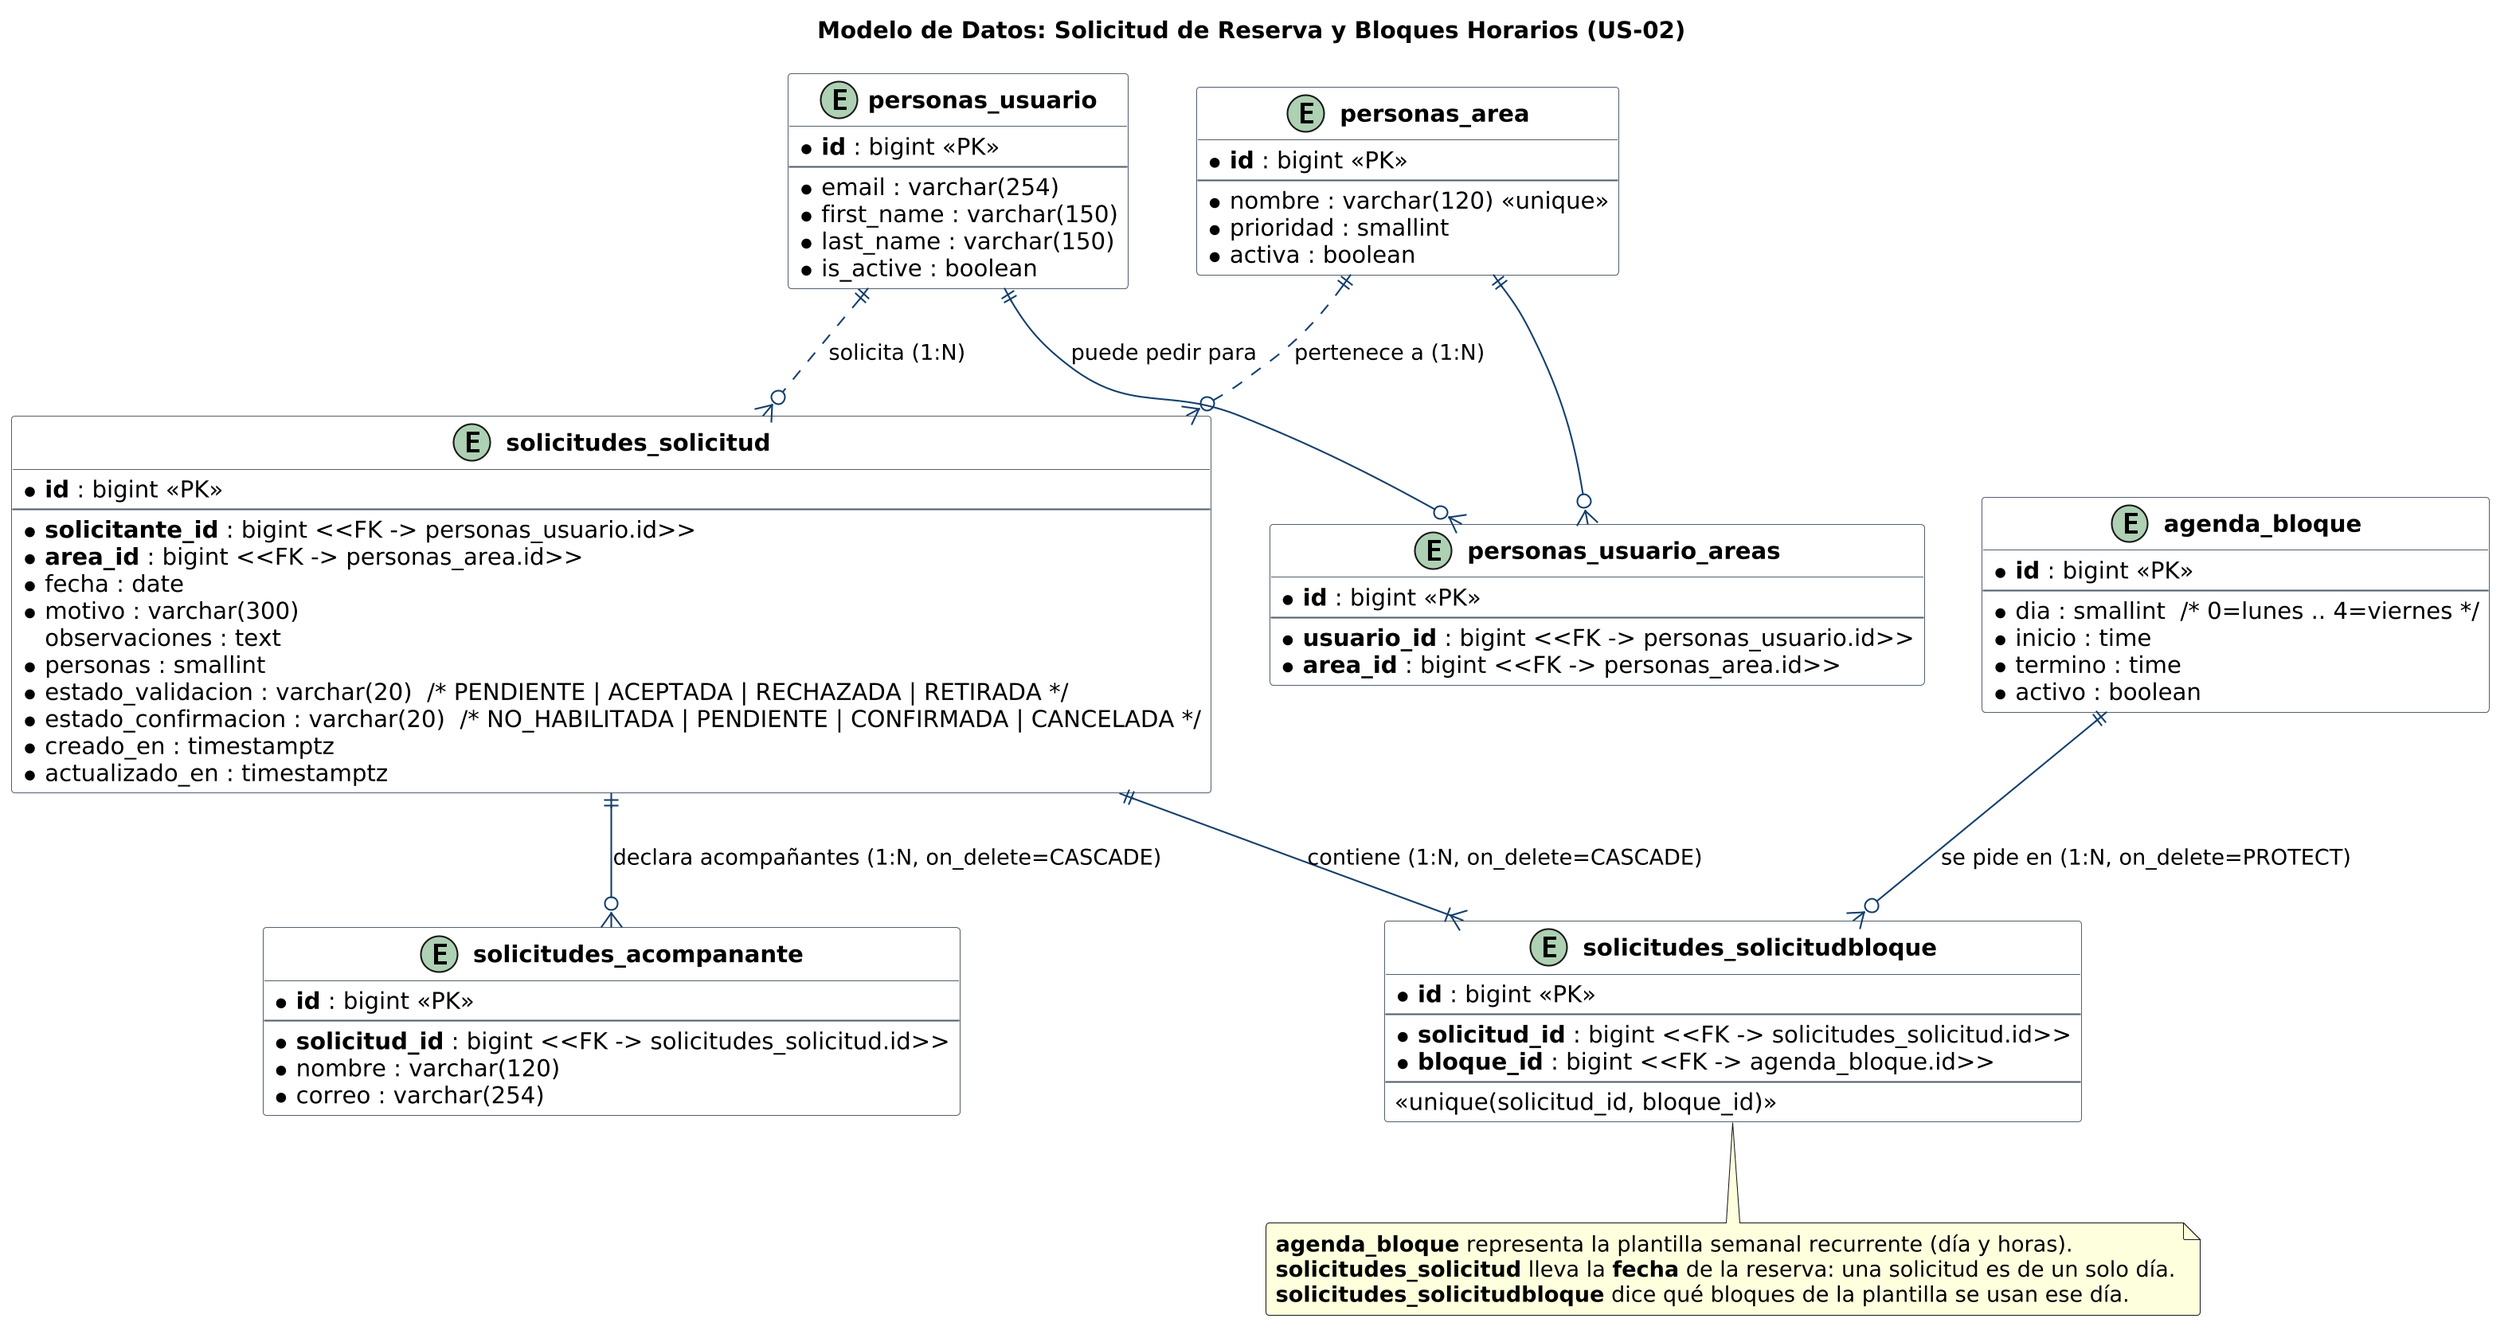
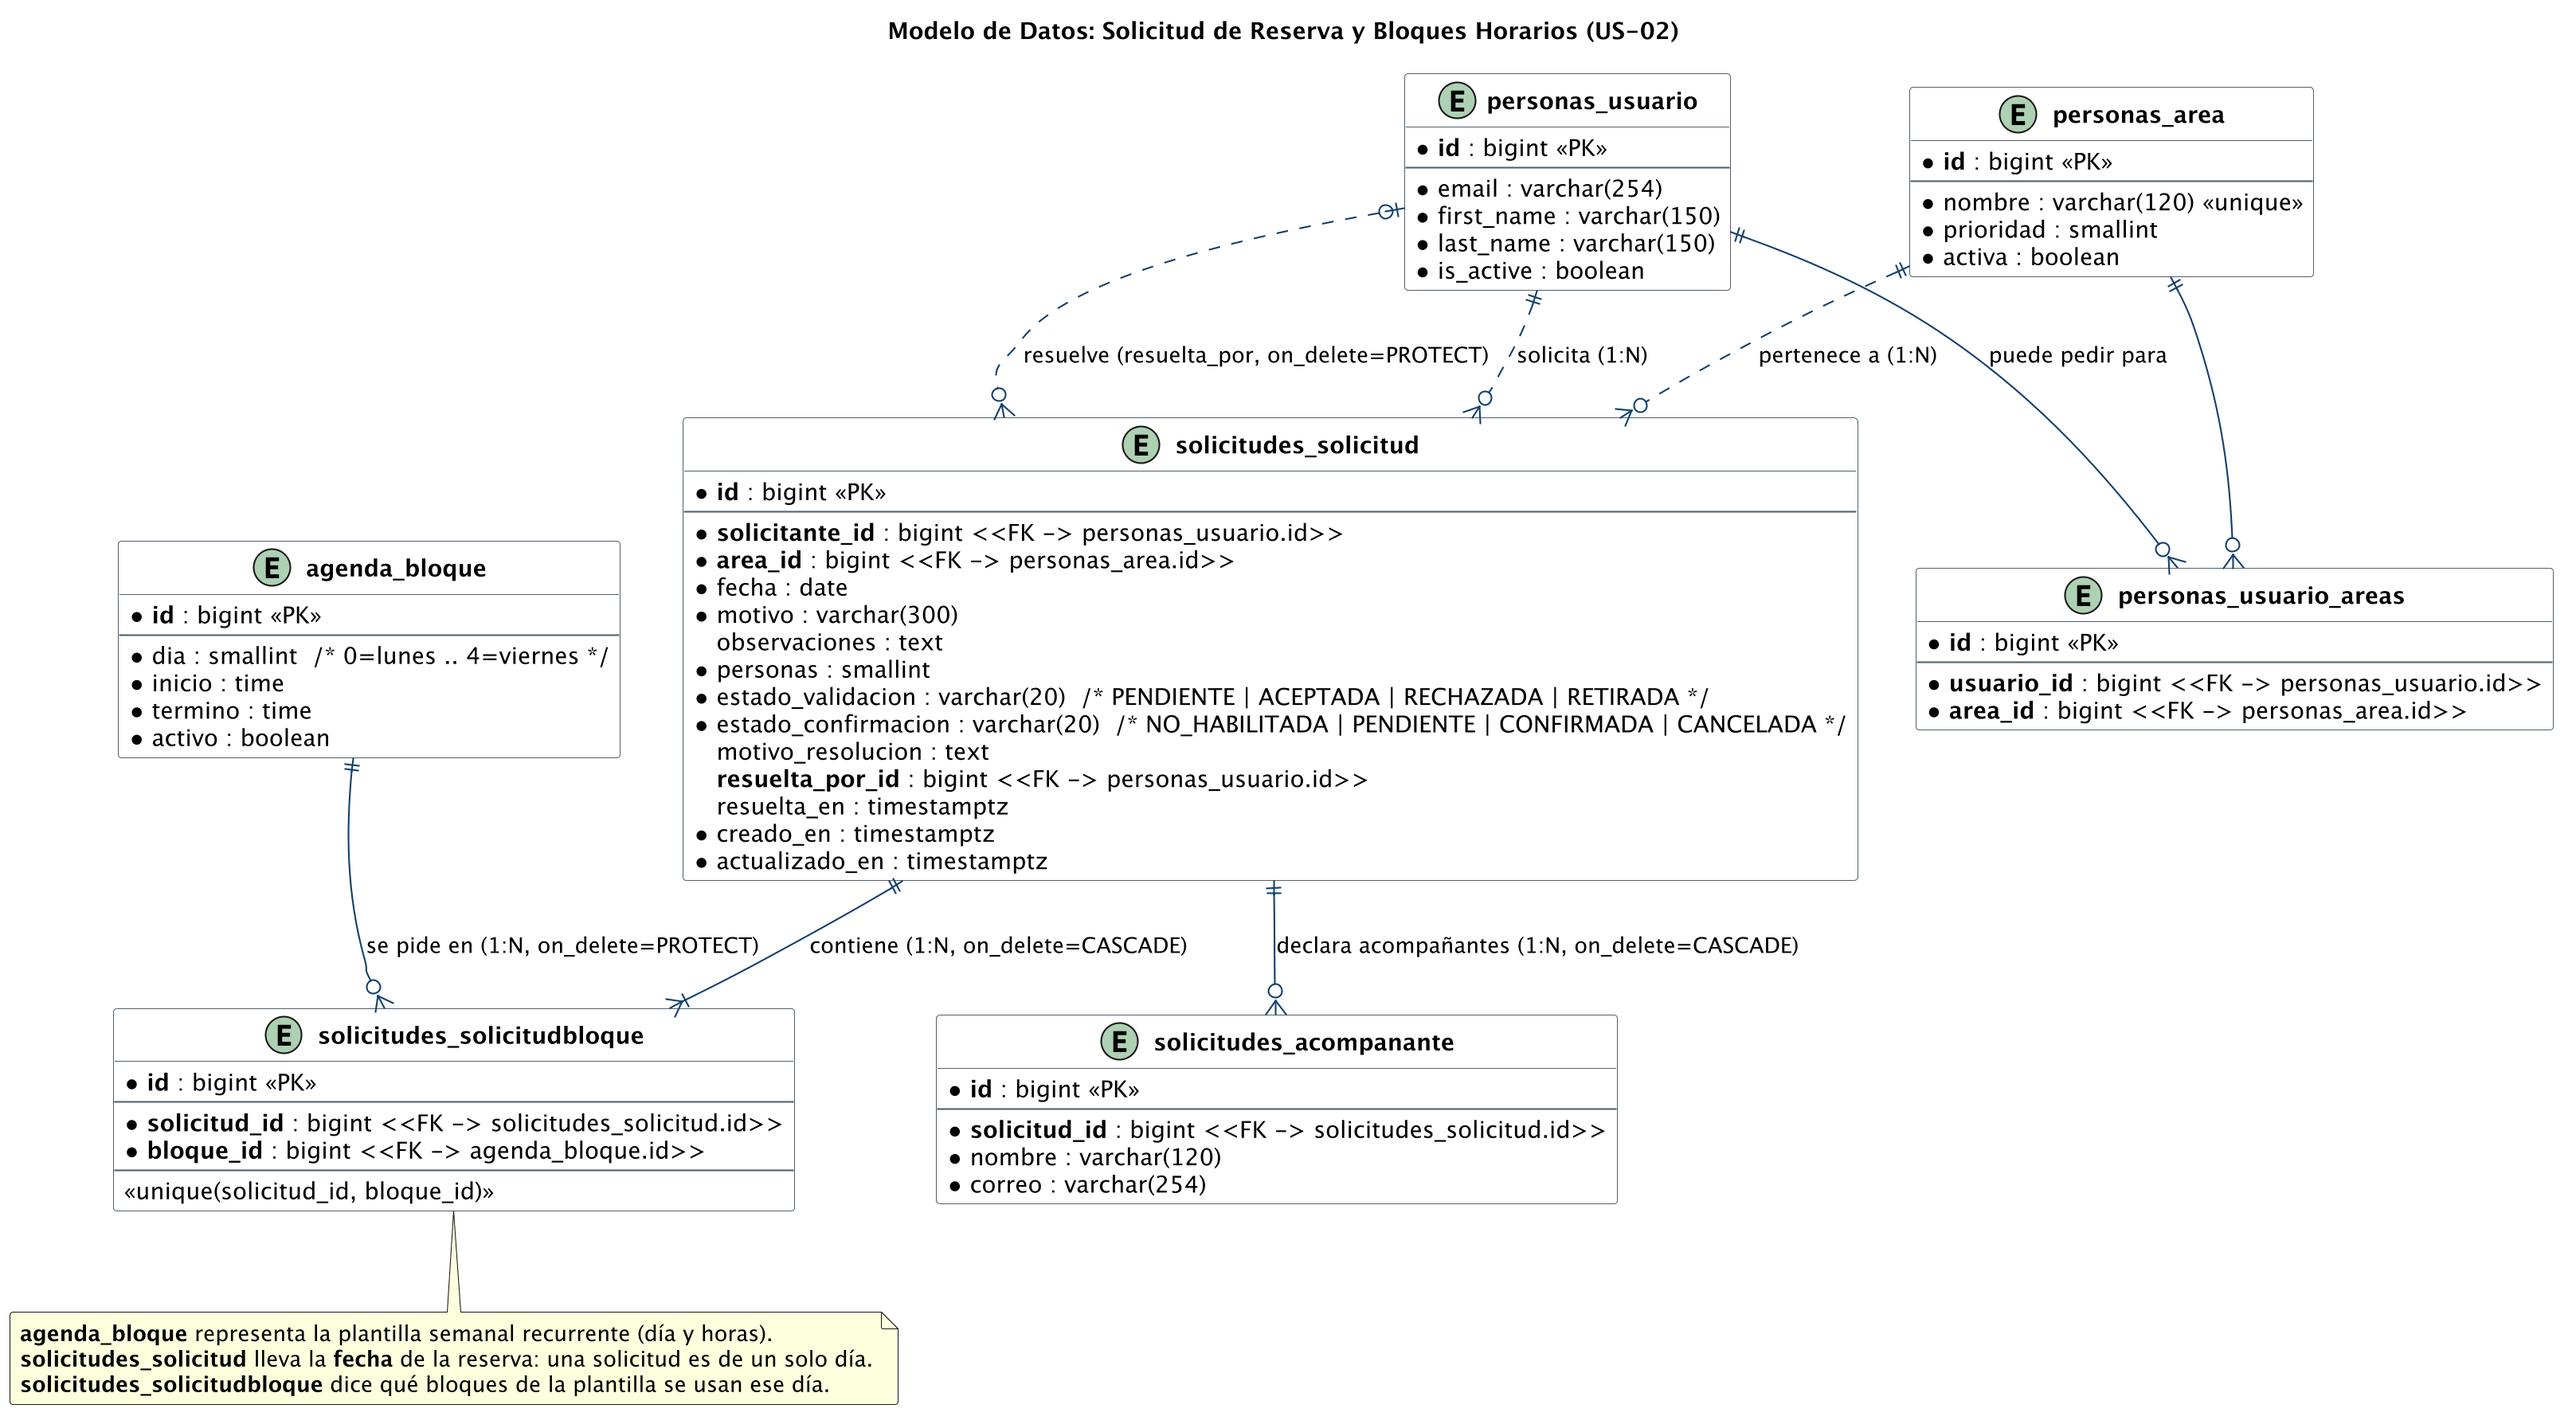
docs(solicitudes): poner al día los diagramas de US-07 y el modelo de US-02
El PR de US-03 cambió cosas que los diagramas de US-07 ya mostraban: resolver()
recibe `url_base`, el correo de una aprobada trae `url_confirmar`, los botones
se apagan mientras va el pedido (`enviando`) y, al rechazar sin tope, el aviso
sale en la tarjeta y el botón se llama «Confirmar rechazo». Se cambian solo esas
flechas; el resto del dibujo queda igual.

El modelo de datos de US-02 no tenía las columnas de la migración 0004
(`motivo_resolucion`, `resuelta_por_id`, `resuelta_en`). Se agregan con su FK.
Las demás columnas de personas_usuario siguen fuera de ese diagrama: están
completas en el modelo de datos de personas.

diff --git a/docs/diagramas.md b/docs/diagramas.md
@@ -199,12 +199,18 @@ y el correo sale solo cuando la transacción se confirma.
 
 La pantalla cambia solo si el servidor respondió `{"ok": true}`. Si la sesión
 venció, la respuesta es la página de ingreso y no JSON, y el panel avisa que no
-se pudo guardar.
+se pudo guardar. Mientras va el pedido los botones se apagan (`enviando`): un
+doble clic mandaría dos, y el segundo respondería que ya fue resuelta aunque se
+guardó.
+
+El correo de una aprobada trae el enlace para confirmar la asistencia (US-03).
+La vista le pasa a `resolver()` el esquema y el dominio del sitio (`url_base`)
+para armar el enlace completo; sin ellos, el correo sale sin enlace.
 
 ### Resolver una solicitud sin tope (US-07)
 
 Sin rivales, aprobar no pide motivo. Rechazar sí, y se confirma en la misma
-tarjeta. Si otro validador ya la resolvió o el solicitante la retiró, el
+tarjeta, donde sale también el aviso si falta. Si otro validador ya la resolvió o el solicitante la retiró, el
 servidor lo dice y el panel lo muestra.
 
 ![Resolver una solicitud sin tope](diagramas/us-07/resolver-sin-tope.png)
@@ -408,6 +414,7 @@ El modelo separa la definición de la **plantilla semanal** recurrente (`agenda_
 - **Integridad referencial y claves foráneas**:
   - `solicitudes_solicitud.solicitante_id` → `personas_usuario.id` (`on_delete=PROTECT`): protege el historial de solicitudes y auditoría.
   - `solicitudes_solicitud.area_id` → `personas_area.id` (`on_delete=PROTECT`): garantiza la trazabilidad del área académica requirente.
+  - `solicitudes_solicitud.resuelta_por_id` → `personas_usuario.id` (`on_delete=PROTECT`, vacío mientras está pendiente): quién la resolvió en el panel del validador, con `resuelta_en` y `motivo_resolucion` (US-07 AC5, migración `0004_solicitud_resolucion`).
   - `solicitudes_solicitudbloque.solicitud_id` → `solicitudes_solicitud.id` (`on_delete=CASCADE`): mantiene la consistencia de bloques asignados a la solicitud.
   - `solicitudes_solicitudbloque.bloque_id` → `agenda_bloque.id` (`on_delete=PROTECT`): permite desactivar bloques de la plantilla sin alterar las solicitudes históricas ya existentes.
   - `personas_usuario_areas` (`Usuario.areas`): las áreas para las que una persona puede solicitar. El asistente lee de aquí las activas para fijar el área o pedir que la elija.
